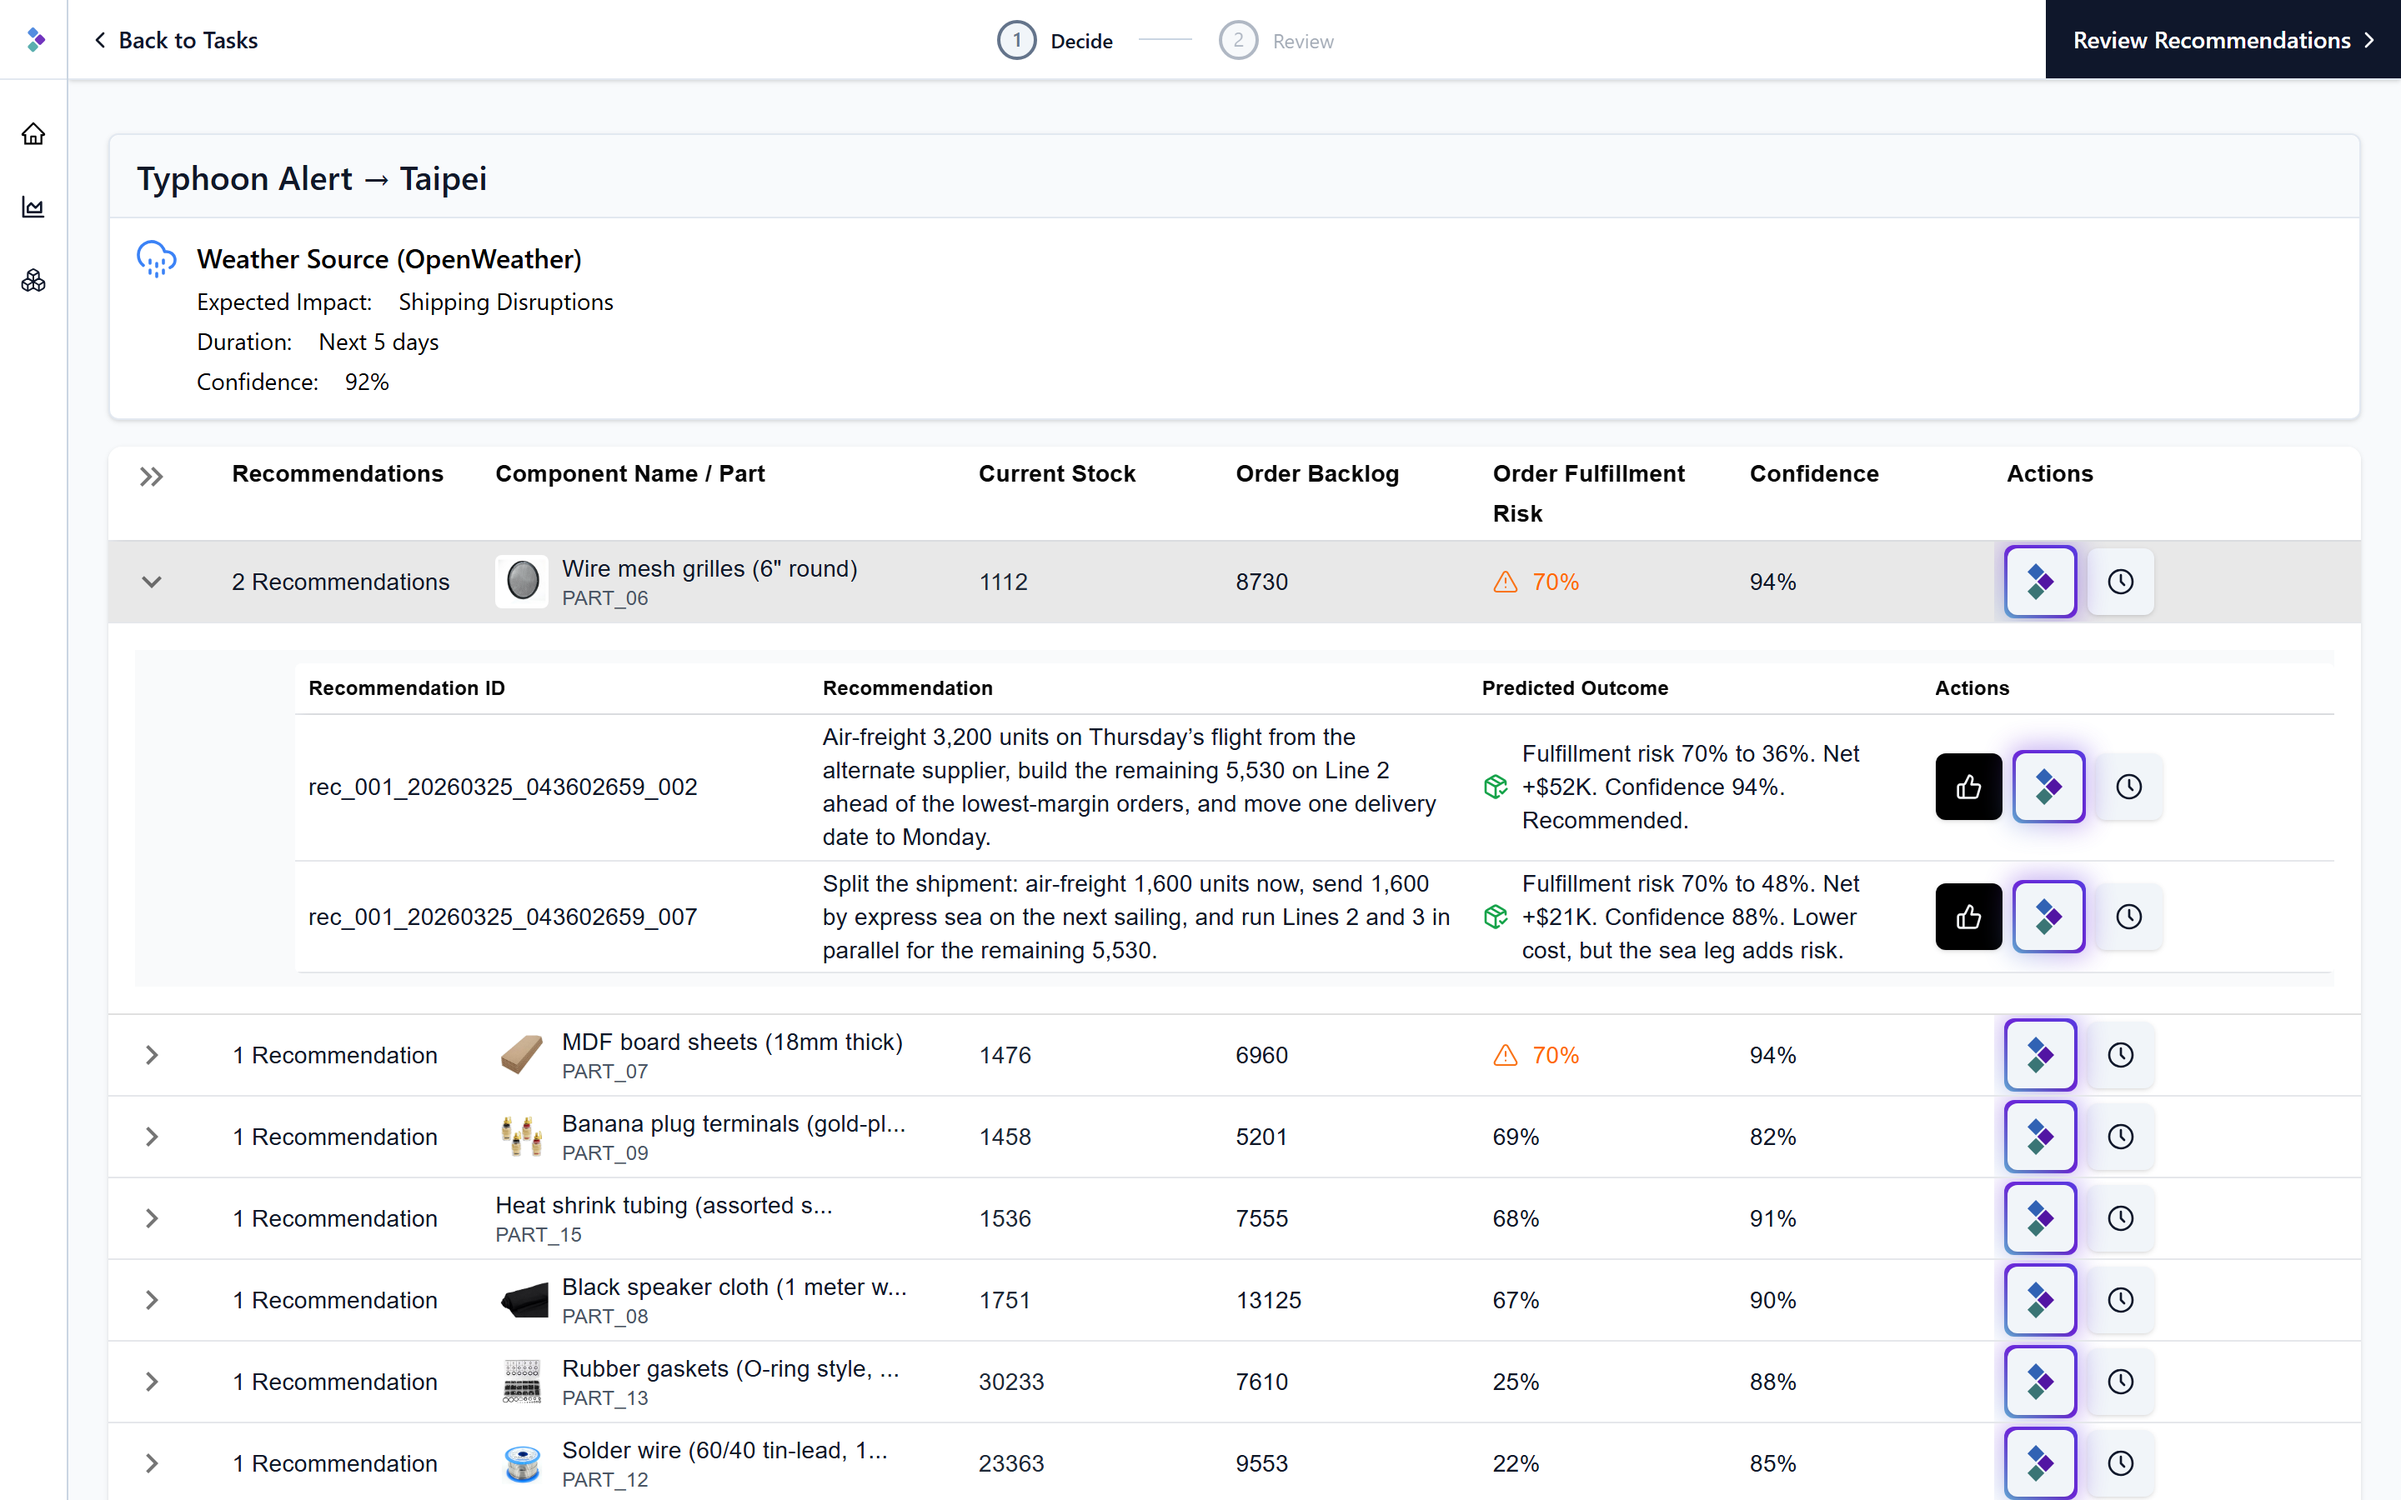
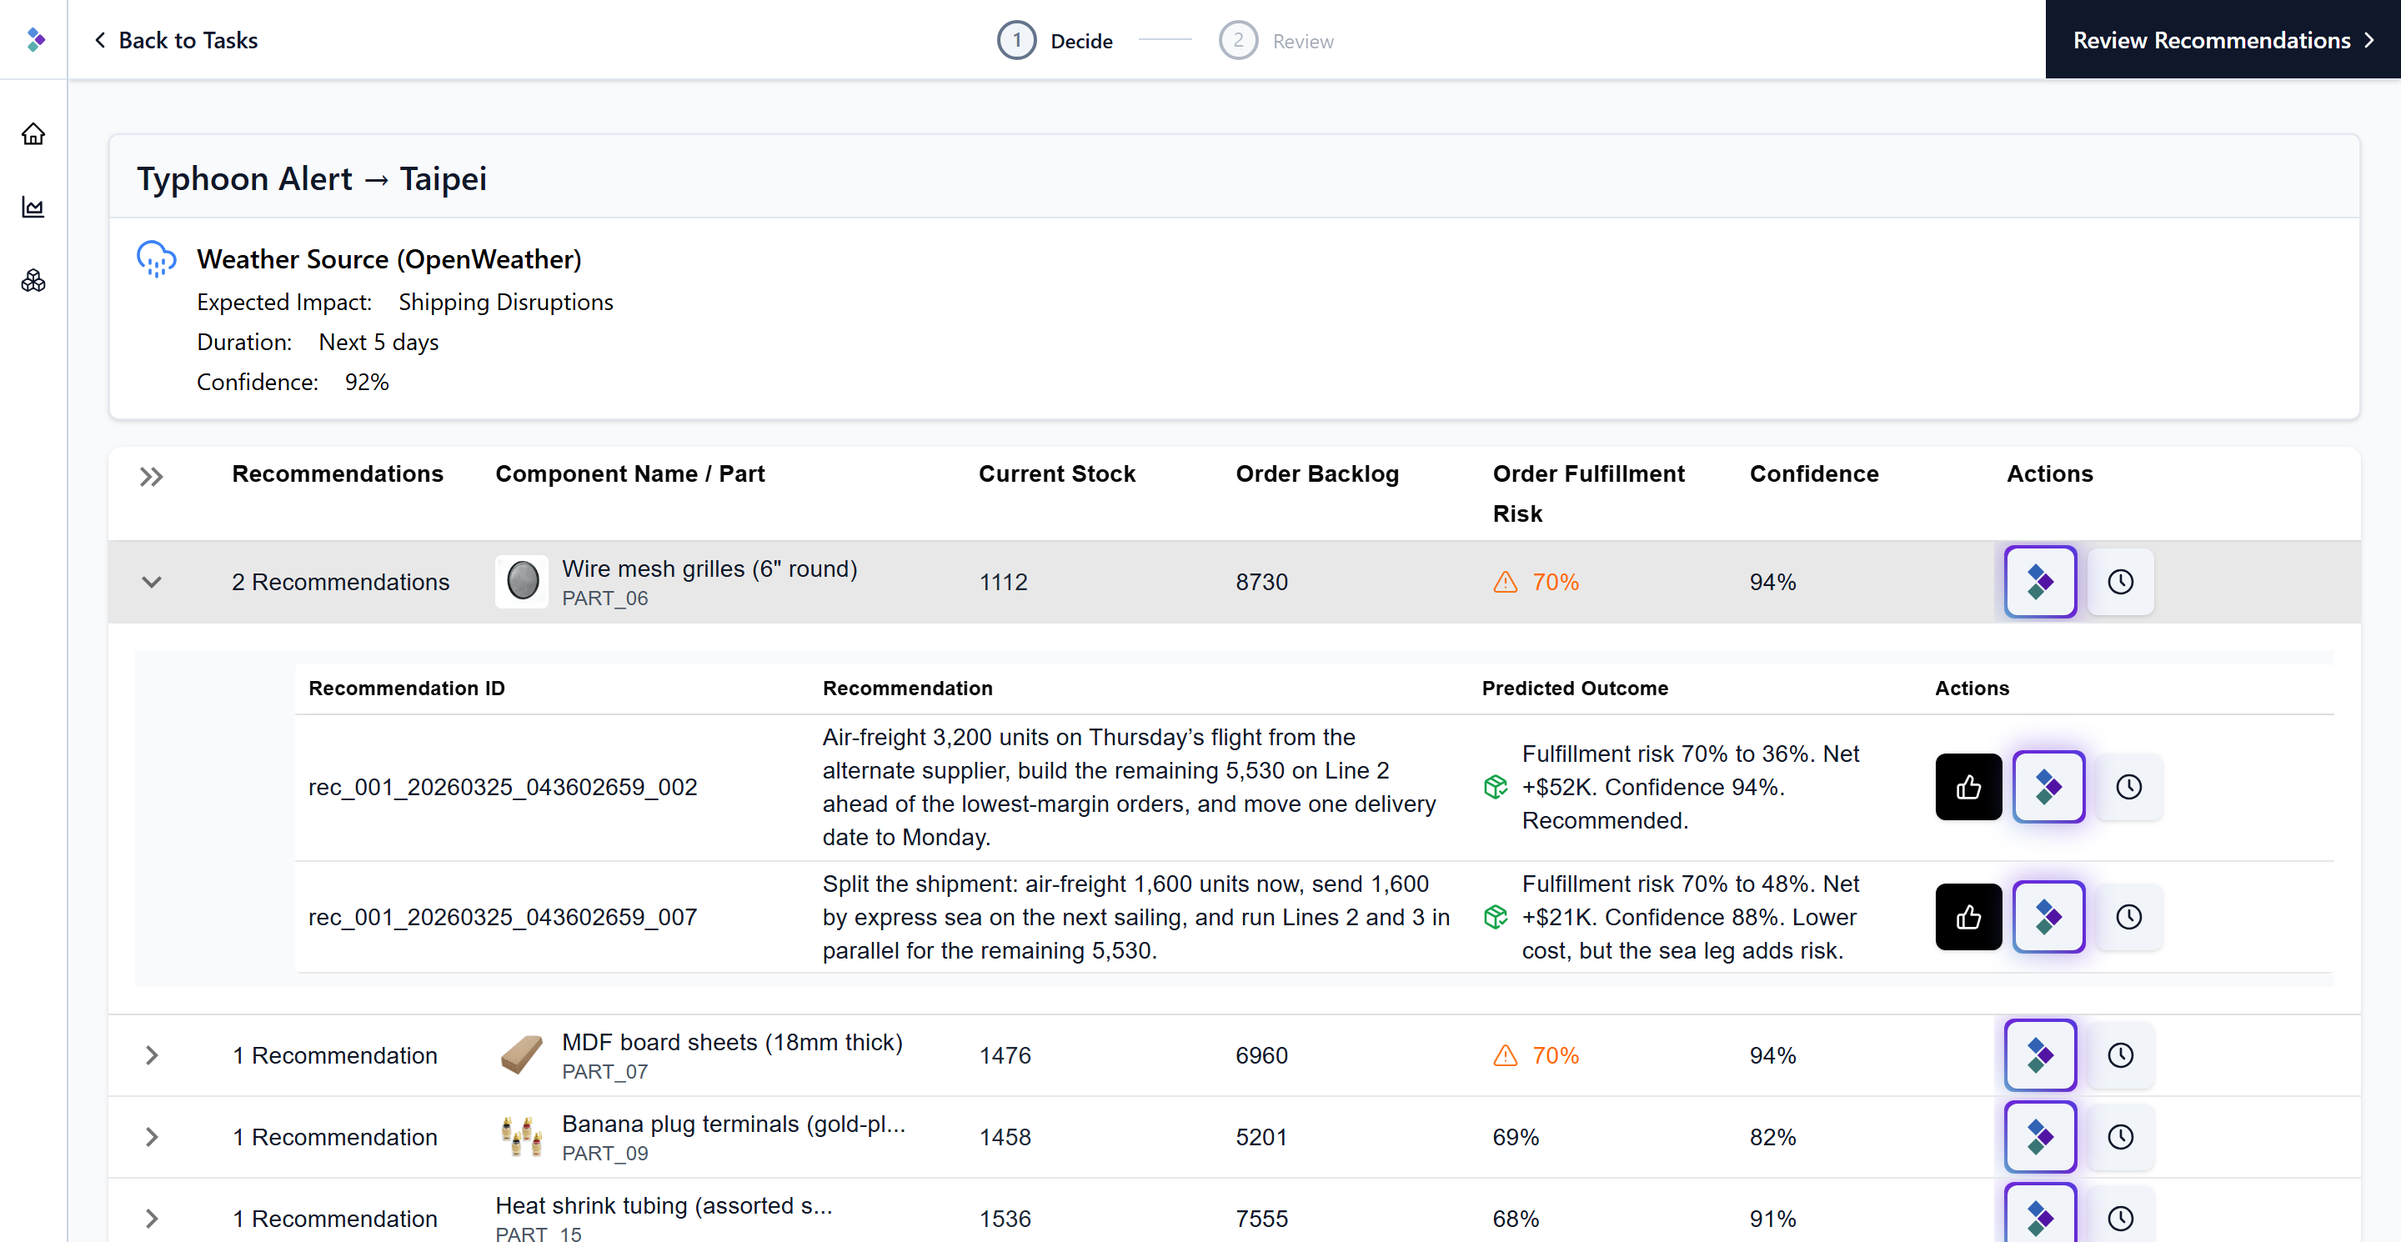
Hero: shared proportions across Home, Product and Solutions, wider left column; label the risk values in the platform example

diff --git a/src/components/NavHero.tsx b/src/components/NavHero.tsx
@@ -132,7 +132,7 @@ const SCREENS: Array<{ k: string; icon: LucideIcon }> = [
   { k: 'Agent', icon: MessageSquareText },
   { k: 'Decision Tracker', icon: TrendingUp },
 ];
-const STEP = { x: 22, y: -22 };
+const STEP = { x: 10, y: -22 };
 
 function Chrome({ title, right }: { title: string; right?: ReactNode }) {
   return (
@@ -159,9 +159,9 @@ function HeroPackage() {
     { icon: LineChart, t: 'Result', d: 'Expected vs actual, kept' },
   ];
   return (
-    <div className="relative mx-auto w-full max-w-[700px]">
+    <div className="relative mx-auto w-full max-w-[760px]">
       <img src={asset('photos/route.webp')} alt="" aria-hidden="true" className="pointer-events-none absolute -inset-10 -z-10 h-[calc(100%+5rem)] w-[calc(100%+5rem)] object-cover opacity-70 [mask-image:radial-gradient(ellipse_at_center,#000_35%,transparent_72%)]" />
-      <div className="relative pr-[88px] pt-[88px] max-sm:pr-[44px] max-sm:pt-[44px]">
+      <div className="relative pr-[40px] pt-[88px] max-sm:pr-[20px] max-sm:pt-[44px]">
         <div className="relative">
           {SCREENS.map((s, i) => {
             const pos = i + 1; // Work Hub sits right behind the Decision Model, Decision Tracker is furthest back
@@ -175,10 +175,10 @@ function HeroPackage() {
           })}
 
           {/* The explanatory window, at laptop proportions */}
-          <div className="relative z-40 flex flex-col overflow-hidden rounded-xl border border-border bg-card shadow-[0_28px_70px_-26px_rgb(37_59_127/0.55)] sm:aspect-[16/10]">
+          <div className="relative z-40 flex flex-col overflow-hidden rounded-xl border border-border bg-card shadow-[0_28px_70px_-26px_rgb(37_59_127/0.55)] sm:aspect-[1.762]">
             <div className="h-1 shrink-0 bg-[linear-gradient(90deg,#0284c7_0%,#5eead4_24%,#6d28d9_62%,#4f46e5_100%)]" />
             <Chrome title="Decision Model" right={<span className="ml-auto rounded-full bg-secondary px-2.5 py-0.5 text-[10px] font-semibold uppercase tracking-[0.06em] text-muted-foreground">Illustrative</span>} />
-            <div className="flex flex-1 flex-col gap-3.5 p-4 sm:p-5">
+            <div className="flex flex-1 flex-col justify-between gap-3.5 p-4 sm:p-5">
               <div className="inline-flex w-fit flex-wrap gap-1 rounded-lg bg-secondary p-1" role="tablist" aria-label="Recurring decision">
                 {USECASES.map((x) => (
                   <button key={x.id} role="tab" aria-selected={x.id === id} onClick={() => setId(x.id)} aria-label={x.label} className={cn('cursor-pointer whitespace-nowrap rounded-md border-0 px-2.5 py-1.5 text-[11.5px] font-semibold transition-colors', x.id === id ? 'bg-card text-primary shadow-sm' : 'bg-transparent text-muted-foreground hover:text-primary')}>
@@ -226,7 +226,7 @@ export function Hero() {
     <div id="top" className="relative overflow-hidden">
       <div className="hero-grid pointer-events-none absolute inset-0" aria-hidden="true" />
       <div className="pointer-events-none absolute -right-40 top-10 size-[620px] rounded-full bg-[radial-gradient(circle,rgb(81_141_224/.16),transparent_65%)]" aria-hidden="true" />
-      <div className="relative mx-auto grid w-full max-w-[1360px] items-center gap-12 px-4 pb-20 pt-12 sm:px-6 lg:grid-cols-[minmax(0,0.72fr)_minmax(0,1.28fr)] lg:gap-10 lg:px-8 lg:pb-24 lg:pt-20">
+      <div className="relative mx-auto grid w-full max-w-[1360px] items-center gap-12 px-4 pb-20 pt-12 sm:px-6 lg:grid-cols-[minmax(0,0.8fr)_minmax(0,1.2fr)] lg:gap-10 lg:px-8 lg:pb-24 lg:pt-20">
         <div>
           <Eyebrow className="rise rise-1">Enterprise Decision Operating System</Eyebrow>
           <h1 className="rise rise-2 mt-4 text-[clamp(36px,4.2vw,56px)] font-extrabold leading-[1.05] text-primary">

diff --git a/src/components/Services.tsx b/src/components/Services.tsx
@@ -7,7 +7,7 @@ export function ServicesHero() {
   return (
     <div id="top" className="relative overflow-hidden">
       <div className="hero-grid pointer-events-none absolute inset-0" aria-hidden="true" />
-      <div className="relative mx-auto grid w-full max-w-[1360px] items-center gap-12 px-4 pb-20 pt-12 sm:px-6 lg:grid-cols-[minmax(0,0.72fr)_minmax(0,1.28fr)] lg:gap-10 lg:px-8 lg:pb-24 lg:pt-20">
+      <div className="relative mx-auto grid w-full max-w-[1360px] items-center gap-12 px-4 pb-20 pt-12 sm:px-6 lg:grid-cols-[minmax(0,0.8fr)_minmax(0,1.2fr)] lg:gap-10 lg:px-8 lg:pb-24 lg:pt-20">
         <div>
           <Eyebrow className="rise rise-1">Solutions</Eyebrow>
           <h1 className="rise rise-2 mt-4 text-[clamp(34px,4.4vw,54px)] font-extrabold leading-[1.05] text-primary">
@@ -26,7 +26,7 @@ export function ServicesHero() {
           </div>
         </div>
         <div className="rise rise-5 min-w-0">
-          <BrowserFrame src="screens/uc-options.png" alt="Kimaru recommendations page showing two options for one component, each with its predicted outcome and confidence" title="Two options, compared" aspect="1440 / 900" />
+          <BrowserFrame src="screens/uc-options.png" alt="Kimaru recommendations page showing two options for one component, each with its predicted outcome and confidence" title="Two options, compared" aspect="1440 / 745" />
         </div>
       </div>
     </div>

diff --git a/src/components/ImpactMap.tsx b/src/components/ImpactMap.tsx
@@ -38,7 +38,8 @@ function DecisionExample() {
                 <span className="text-[13px] font-semibold text-primary">{o.t}</span>
               </div>
               <p className={cn('m-0 mt-2.5 text-3xl font-extrabold leading-none tabular-nums', o.rec ? 'text-active' : 'text-amber-600')}>{o.risk}%</p>
-              <p className={cn('m-0 mt-1 text-xs', o.rec ? 'font-semibold text-active' : 'text-muted-foreground')}>{o.rec ? 'Recommended' : 'Lower cost, higher risk'}</p>
+              <p className="m-0 mt-1 text-xs text-muted-foreground">Fulfillment risk after this option</p>
+              <p className={cn('m-0 mt-2 text-xs', o.rec ? 'font-semibold text-active' : 'text-muted-foreground')}>{o.rec ? 'Recommended' : 'Lower cost, higher risk'}</p>
             </div>
           ))}
         </div>

diff --git a/src/components/Tour.tsx b/src/components/Tour.tsx
@@ -37,7 +37,7 @@ const steps: Step[] = [
   },
   {
     k: 'Compare', t: 'Two good options for one component, side by side.', line: 'When the data supports more than one sensible move, Kimaru shows both with their predicted outcome and confidence, and the owner chooses.',
-    screen: { src: 'screens/uc-options.png', w: 1440, h: 900, title: 'Recommendations', alt: 'Kimaru recommendations page with two options for one component' },
+    screen: { src: 'screens/uc-options.png', w: 1440, h: 745, title: 'Recommendations', alt: 'Kimaru recommendations page with two options for one component' },
     pins: [{ x: 33, y: 40, t: 'Each option, in plain terms' }, { x: 61, y: 40, t: 'Predicted outcome and confidence for each' }, { x: 80, y: 40, t: 'Accept, ask the agent or defer, per option' }],
   },
   {

diff --git a/src/components/Product.tsx b/src/components/Product.tsx
@@ -6,7 +6,7 @@ import { Reveal } from './motion';
 export function ProductHero() {
   return (
     <div id="top" className="relative overflow-hidden">
-      <div className="relative mx-auto grid w-full max-w-[1360px] items-center gap-12 px-4 pb-20 pt-12 sm:px-6 lg:grid-cols-[minmax(0,0.72fr)_minmax(0,1.28fr)] lg:gap-10 lg:px-8 lg:pb-24 lg:pt-20">
+      <div className="relative mx-auto grid w-full max-w-[1360px] items-center gap-12 px-4 pb-20 pt-12 sm:px-6 lg:grid-cols-[minmax(0,0.8fr)_minmax(0,1.2fr)] lg:gap-10 lg:px-8 lg:pb-24 lg:pt-20">
         <div>
           <Eyebrow className="rise rise-1">Product</Eyebrow>
           <h1 className="rise rise-2 mt-4 text-[clamp(34px,4.4vw,54px)] font-extrabold leading-[1.05] text-primary">

diff --git a/src/components/Edos.tsx b/src/components/Edos.tsx
@@ -33,7 +33,7 @@ const layers: Layer[] = [
     id: 'decisions', tier: 'What Kimaru does', icon: Brain, title: 'Compare options', short: 'Likely consequences',
     body: 'See what each option would do before anyone commits, so the choice is made with the outcome in view.',
     replaces: 'Gut feel about what will happen',
-    img: { src: 'screens/uc-options.png', title: 'Two recommendations for one component', aspect: '1440 / 900' },
+    img: { src: 'screens/uc-options.png', title: 'Two recommendations for one component', aspect: '1440 / 745' },
   },
   {
     id: 'cockpit', tier: 'What Kimaru does', icon: LayoutDashboard, title: 'Ask why', short: 'Where people work',
